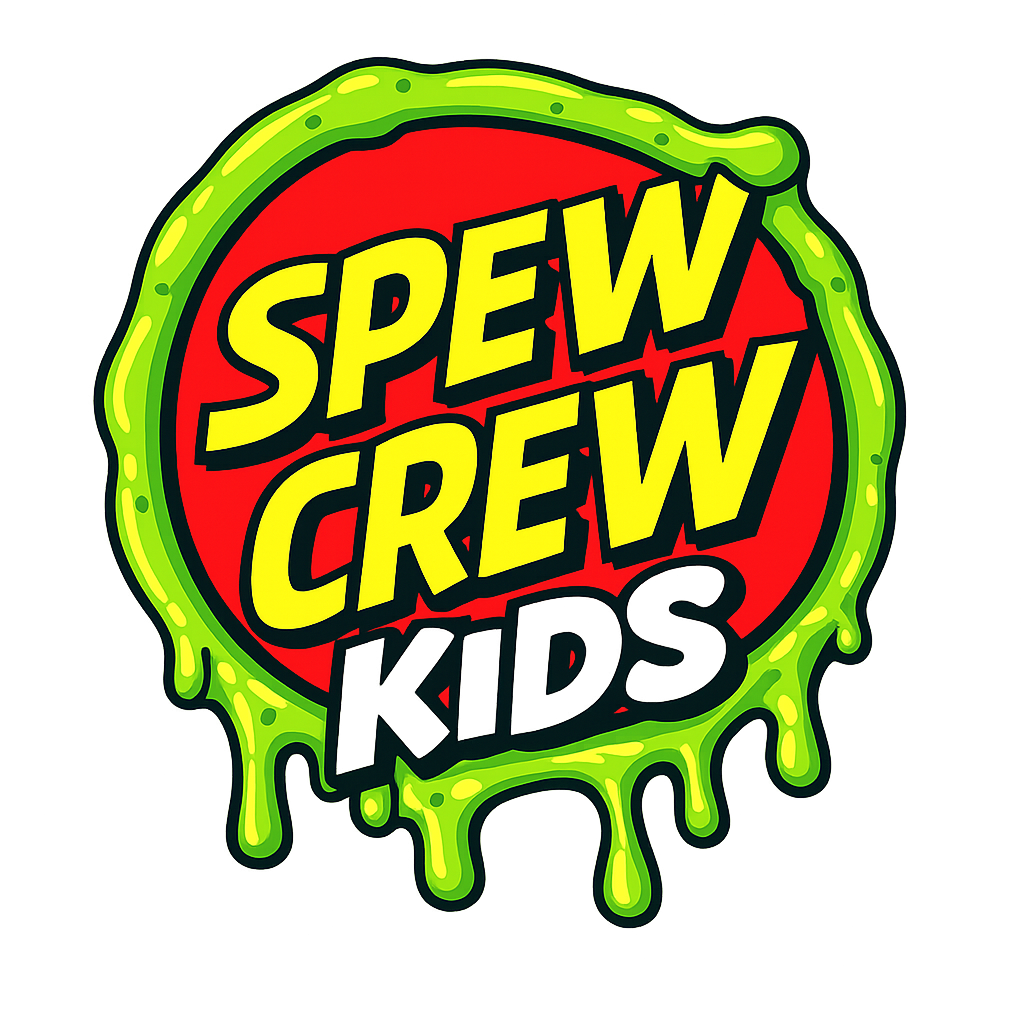
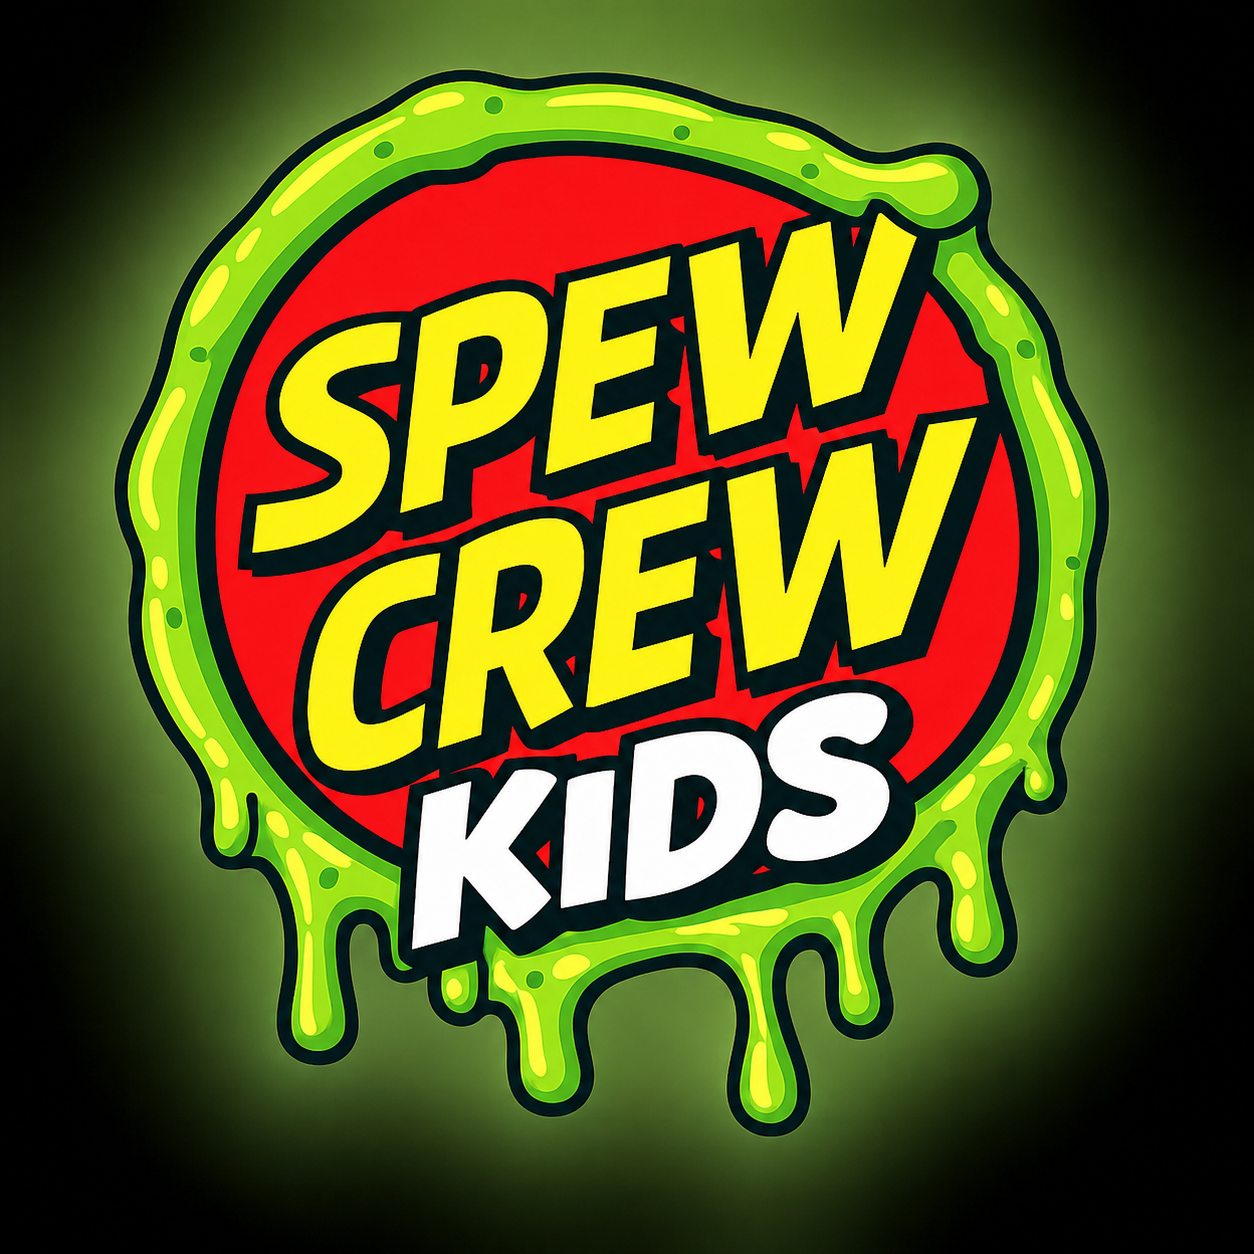
Complete ADG footer brand set

diff --git a/index.html b/index.html
@@ -1464,15 +1464,19 @@ function startPollPack() {
 console.log('%c[SpewCrew Video Creator] Full pipeline ready — script + images via Gemini Worker + Higgsfield-ready prompts + edit-everywhere + multi-asset export', 'color:#4ADE80');
 </script>
 
+
 <footer class="adg-ecosystem-footer">
   <h2>Ascension Digital Group</h2>
   <p>Explore our brands</p>
   <div class="adg-brand-grid">
-    <a href="https://mycalctools.net"><img src="/brands/myCalcTools.png" alt="MyCalcTools"><span>MyCalcTools</span></a>
-    <a href="https://mycalendartools.net"><img src="/brands/myCalendarTools.png" alt="MyCalendarTools"><span>MyCalendarTools</span></a>
-    <a href="https://wheelnamepicker.com.au"><img src="/brands/wheelNamePicker.png" alt="Wheel Name Picker"><span>Wheel Name Picker</span></a>
-    <a href="https://youtube.com/@spewcrewkids"><img src="/brands/spewCrew.png" alt="Spew Crew Kids"><span>Spew Crew Kids</span></a>
-    <a href="https://ascensiondigitalgroup.com"><img src="/brands/adgDownloads.png" alt="ADG Downloads"><span>ADG Downloads</span></a>
+    <a href="https://mystical-moments.net"><img src="https://ravensharppod.pages.dev/brands/mysticalMoments.png" alt="Mystical Moments"><span>Mystical Moments</span></a>
+    <a href="https://www.etsy.com/shop/ZyiaCreations"><img src="https://ravensharppod.pages.dev/brands/zyiaCreations.png" alt="Zyia Creations"><span>Zyia Creations</span></a>
+    <a href="https://youtube.com/@spewcrewkids"><img src="https://ravensharppod.pages.dev/brands/spewCrew.png" alt="Spew Crew Kids"><span>Spew Crew Kids</span></a>
+    <a href="https://www.facebook.com/feedthefeed"><img src="https://ravensharppod.pages.dev/brands/feedTheFeed.png" alt="Feed The Feed"><span>Feed The Feed</span></a>
+    <a href="https://mycalctools.net"><img src="https://ravensharppod.pages.dev/brands/myCalcTools.png" alt="MyCalcTools"><span>MyCalcTools</span></a>
+    <a href="https://mycalendartools.net"><img src="https://ravensharppod.pages.dev/brands/myCalendarTools.png" alt="MyCalendarTools"><span>MyCalendarTools</span></a>
+    <a href="https://wheelnamepicker.com.au"><img src="https://ravensharppod.pages.dev/brands/wheelNamePicker.png" alt="Wheel Name Picker"><span>Wheel Name Picker</span></a>
+    <a href="https://ascensiondigitalgroup.com"><img src="https://ravensharppod.pages.dev/brands/adgDownloads.png" alt="ADG Downloads"><span>ADG Downloads</span></a>
   </div>
   <div class="adg-footer-copy">Part of Ascension Digital Group</div>
 </footer>